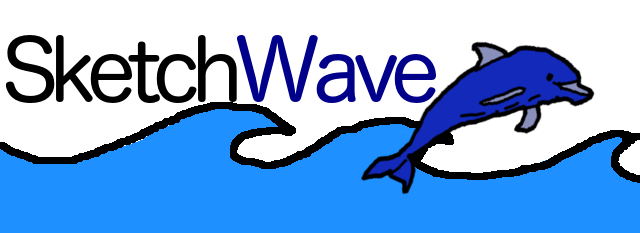
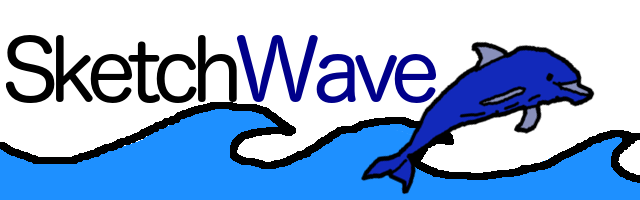
Save a bit of vertical height by shrinking header slightly.

diff --git a/public/stylesheets/screen.css b/public/stylesheets/screen.css
@@ -48,9 +48,9 @@ body {
 
 header#siteHeader {
 	background: url(/images/wave.png) repeat-x;
-	background-size: auto 70px;
+	background-size: auto 62px;
 	background-position: 43px 0;
-	height: 112px;
+	height: 104px;
 	position: absolute;
 	left: 0; right: 0;
 	z-index: 51;
@@ -101,7 +101,7 @@ header nav ul li a i.material-icons {
 section#main {
 	padding: 30px;
 	position: absolute;
-	left: 0; right: 0; bottom: 0; top: 112px;
+	left: 0; right: 0; bottom: 0; top: 104px;
 }
 section#main h1 {
 	overflow: hidden;
